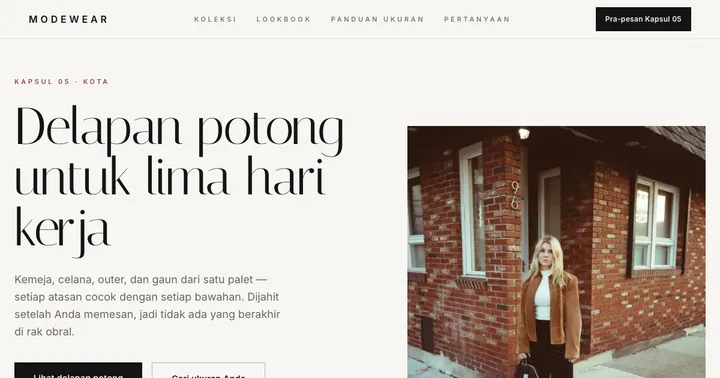
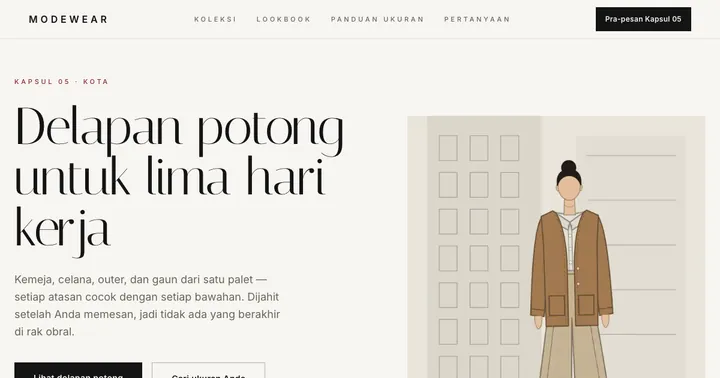
Thumbnail Modewear diperbarui (hero kini ilustrasi)
- public/demos/modewear{,-480,-360}.webp ditangkap ulang dari situs live setelah
  foto hero diganti ilustrasi; THUMB_V 20261022b. Corporate dicek: bagian atasnya
  tidak berubah, jadi thumbnail-nya dibiarkan

Changed region(s): [[0.55, 0.291, 1.0, 1.0]]

diff --git a/app/lib/demos.ts b/app/lib/demos.ts
@@ -112,7 +112,7 @@ export const DEMOS: Demo[] = [
 
 /** Versi thumbnail public/demos: naikkan setiap kali thumbnail ditangkap ulang. Nama berkasnya tetap (<slug>.webp)
  *  sedangkan CDN & peramban menyimpannya 7 hari, jadi versi ini yang membuat tampilan baru langsung terlihat. */
-export const THUMB_V = '20261022'
+export const THUMB_V = '20261022b'
 export const demoThumb = (slug: string) => `/demos/${slug}.webp?v=${THUMB_V}`
 export const demoImage = (d: Demo) => demoThumb(d.slug)
 
